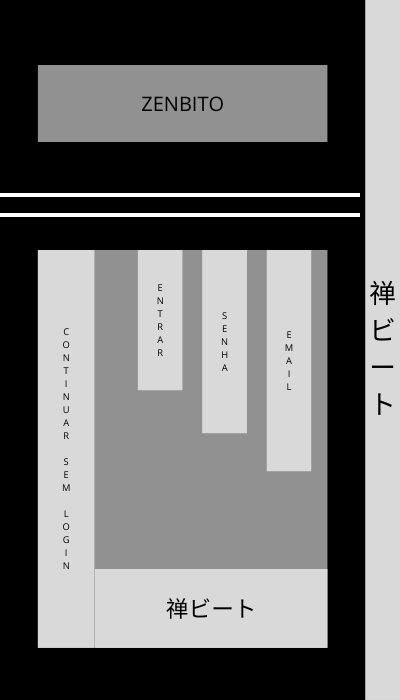
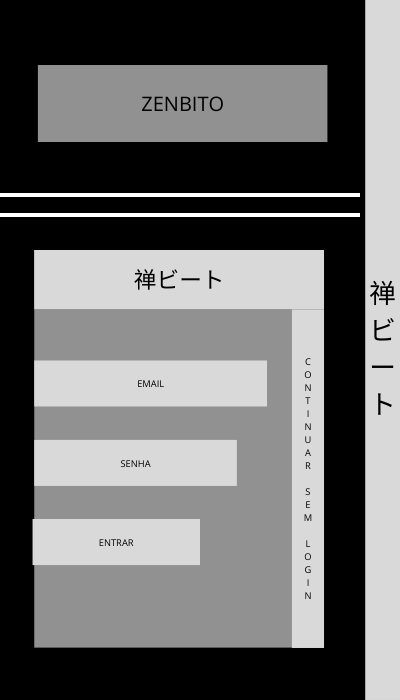
att

Changed region(s): [[0.06, 0.36, 0.84, 0.93]]

diff --git a/index.html b/index.html
@@ -12,16 +12,41 @@
 </head> 
 <body>
     <header>
-        <h1>禅ビート</h1>
+        <div id="conteiner_p">
+            <p class="letras">禅</p>
+            <p class="letras">ビ</p>
+            <p class="letras">ー</p>
+            <p class="letras">ト</p>
+        </div>
     </header>
     <main>
-        <section>
+        <section id="sessao_1">
             <h2>Zenbito</h2>
-            <span></span>
-            <span></span>
+            <span class="linhas"></span>
+            <span class="linhas"></span>
         </section>
 
-    </main>
+        <section id="sessao_2">
 
+            <div id="conteiner_1">
+                <h2> Login </h2> <!--Optar por : 禅ビート ou Login-->
+            </div>
+
+            <div id="conteiner_2">
+                <form action="" method="post">
+                    <input type="email" name="Email" id="iEmail">
+    
+                    <input type="password" name="Password" id="iPassword">
+    
+                    <input type="submit" value="Entrar">
+                </form>
+            </div>
+
+            <div id="conteiner_3">
+                <a href="#">CONTINUAR SEM LOGIN</a>
+            </div>
+
+        </section>
+    </main>
 </body>
 </html>

diff --git a/estilos/login/mobile.css b/estilos/login/mobile.css
@@ -26,3 +26,37 @@
     font-family: system-ui, -apple-system, BlinkMacSystemFont, 'Segoe UI', Roboto, Oxygen, Ubuntu, Cantarell, 'Open Sans', 'Helvetica Neue', sans-serif ;
 }
 
+body {
+    width: 100vw ;
+    height: 100vh ;
+    background-color: gray ;
+}
+    header {
+        position: fixed ;
+        right: 0px ;
+        width: 11% ;
+        height: 100vh ;
+        background-color: black ;
+    }
+        div#conteiner_p {
+            height: 100% ;
+            display: flex ;
+            flex-flow: column nowrap ;
+            justify-content: center ;
+            align-items: center ;
+            background-color: green;
+        }
+            p.letras {
+                display: block ;
+                margin-right: 5px ;
+                font-family: 'Fonte1' ;
+                font-size: 32px ;
+                font-style: italic ;
+            }
+
+
+    main {
+        width: 89% ;
+        height: 100vh ;
+        background-color: white ;
+    }
